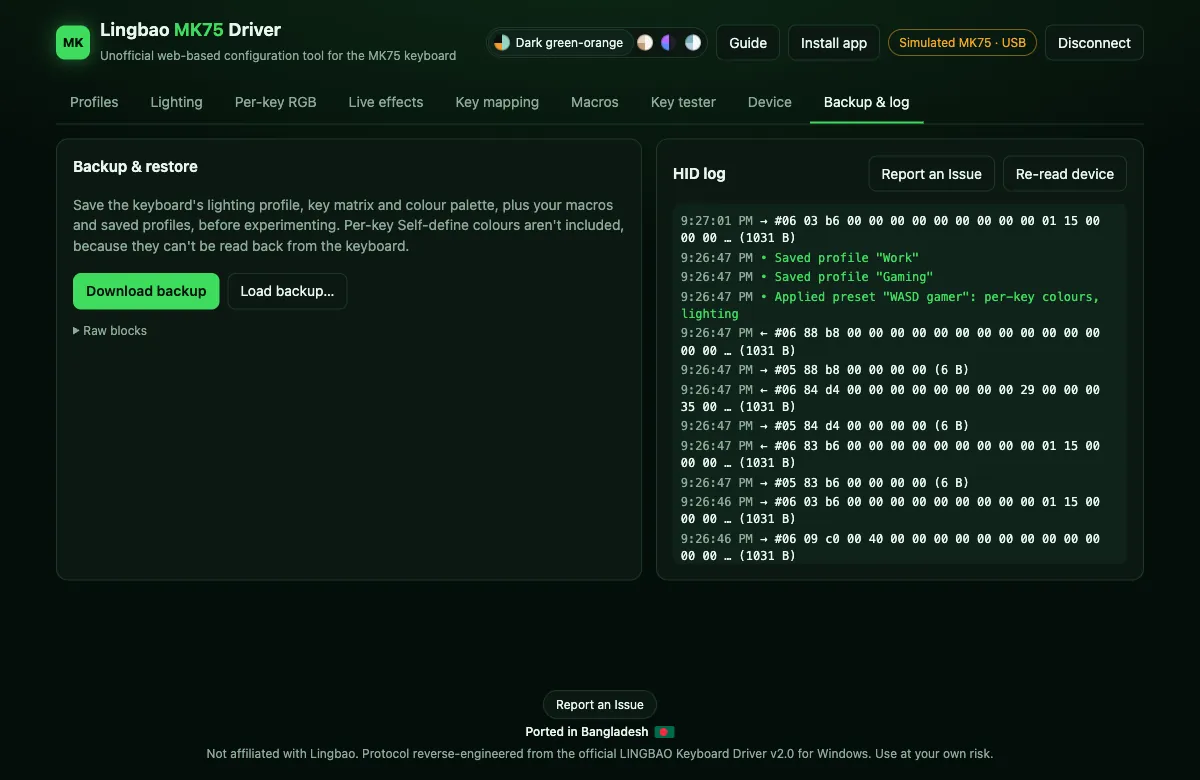
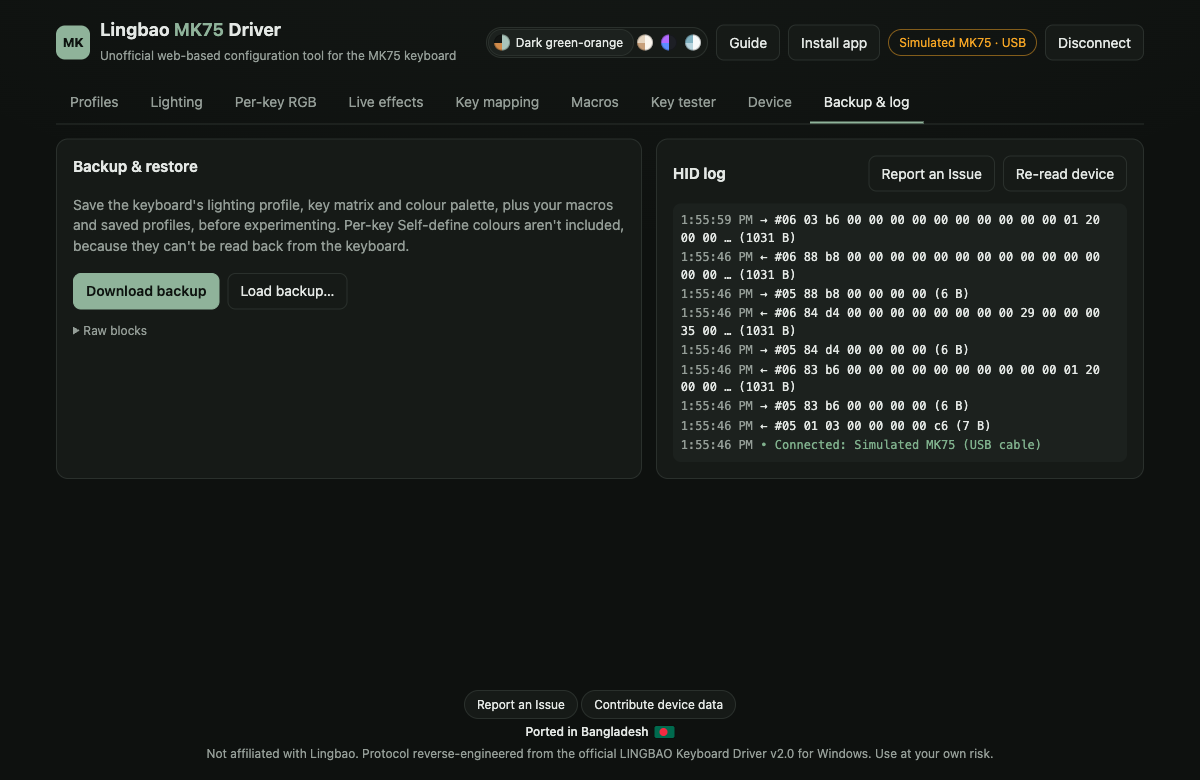
feat: matte Dark green-orange theme
Repaints the default theme to match the real keyboard: near-neutral charcoal
base, sage accent, dusty mint caps, burnt-orange accents, no glows (top
background glow near zero, no glow on the logo or primary-button hover). Theme
id stays green-orange, so saved choices keep working; the other three themes
are unchanged.

Sage is close in hue to the mint caps, so for this theme only the selected-key
ring is near-white, and the Key tester shows held keys in near-white and
tested keys in a deeper green (CSS variables with the old formula as
fallback for the other themes). All text/background pairs are >= 5.8:1.

Also updates theme-color / manifest colours and retakes the manual
screenshots in the new look.

diff --git a/src/styles.css b/src/styles.css
@@ -1,31 +1,31 @@
-/* Lingbao MK75 colour language (sampled from the official MK75 product poster):
-   deep green-black base, lime-green highlight, mint keycaps, charcoal modifiers, orange accents.
+/* Lingbao MK75 colour language, matte like the real board: near-neutral charcoal base, sage highlight,
+   dusty mint keycaps, charcoal modifiers, burnt-orange accents, no glow.
    One theme per official MK75 colourway: dark green-orange (default), iced milk tea, Arthur, summer wilderness. */
 :root {
-  --bg: #050e0a;
-  --bg-glow: rgba(63, 220, 95, 0.16);
-  --surface: #0b1811;
-  --surface-2: #10231a;
-  --border: #1c3829;
-  --text: #e8f5ee;
-  --muted: #8ba999;
-  --accent: #3fdc5f;
-  --accent-ink: #03140a;
-  --accent-2: #f5922a;
-  --mint: #8fd8c5;
+  --bg: #0e110f;
+  --bg-glow: rgba(150, 170, 155, 0.05);
+  --surface: #161a17;
+  --surface-2: #1c211e;
+  --border: #2a302c;
+  --text: #e4e8e5;
+  --muted: #949d97;
+  --accent: #8fb39a;
+  --accent-ink: #0e1410;
+  --accent-2: #d08a4c;
+  --mint: #9cbfb3;
   --danger: #ff6b6b;
-  --ok: #3fdc5f;
+  --ok: #7fb08c;
   --warn: #f5a524;
-  --case: #0a0e0c;
-  --plate: #121815;
-  --cap-alpha: #93d6c6;
-  --cap-alpha-ink: #0b2a22;
-  --cap-mod: #1e2523;
-  --cap-mod-ink: #d3e6dd;
-  --cap-accent: #f39a2b;
-  --cap-accent-ink: #2a1503;
+  --case: #121513;
+  --plate: #181c19;
+  --cap-alpha: #a9c4ba;
+  --cap-alpha-ink: #1c2b26;
+  --cap-mod: #262b28;
+  --cap-mod-ink: #c9d2cd;
+  --cap-accent: #cf8a4a;
+  --cap-accent-ink: #2a1607;
   --cap-edge: rgba(0, 0, 0, 0.45);
-  --knob: #1b201e;
+  --knob: #1f2321;
   --focus: 0 0 0 3px color-mix(in srgb, var(--accent) 40%, transparent);
   color-scheme: dark;
 }
@@ -163,6 +163,8 @@ button:focus-visible, select:focus-visible, input:focus-visible { outline: none;
 button:disabled { opacity: 0.45; cursor: not-allowed; }
 button.primary { background: var(--accent); color: var(--accent-ink); border-color: var(--accent); font-weight: 600; }
 button.primary:hover:not(:disabled) { box-shadow: 0 0 14px color-mix(in srgb, var(--accent) 45%, transparent); }
+/* Dark green-orange is matte: no accent glows. */
+:root[data-theme='green-orange'] :is(.brand-logo, button.primary:hover) { box-shadow: none; }
 button.danger { background: var(--danger); color: #fff; border-color: var(--danger); }
 select {
   font: inherit;
@@ -261,6 +263,10 @@ select {
 .key.sel rect { stroke: var(--accent); stroke-width: 2.5; }
 .key.hl rect { stroke: var(--accent-2); stroke-width: 2; stroke-dasharray: 3 2; }
 .key.sel.hl rect { stroke: var(--accent); stroke-dasharray: none; }
+/* Sage on dusty-mint caps is too close in hue: the matte theme selects in near-white, and the Key tester uses
+   near-white for held keys and a deeper green for tested ones. */
+:root[data-theme='green-orange'] :is(.key.sel rect, .knob.sel .knob-cap) { stroke: var(--text); }
+:root[data-theme='green-orange'] { --key-held: var(--text); --key-tested: #6e9c7a; }
 .key.lit .kl { fill: #fff; paint-order: stroke; stroke: rgba(0, 0, 0, 0.55); stroke-width: 2px; }
 .kl { font-size: 7.5px; pointer-events: none; font-weight: 600; }
 .ks { font-size: 5.5px; fill: var(--accent-2); pointer-events: none; font-weight: 700; paint-order: stroke; stroke: var(--case); stroke-width: 1.5px; }

diff --git a/src/App.tsx b/src/App.tsx
@@ -22,7 +22,7 @@ import { BatteryIcon } from './ui/BatteryIcon';
 
 /** One theme per official MK75 colourway (product page): case / keycap colours for the swatch. */
 const THEMES = [
-  { id: 'green-orange', name: 'Dark green-orange', swatch: 'conic-gradient(#93d6c6 0 50%, #f39a2b 0 75%, #0a0e0c 0)' },
+  { id: 'green-orange', name: 'Dark green-orange', swatch: 'conic-gradient(#a9c4ba 0 50%, #cf8a4a 0 75%, #121513 0)' },
   { id: 'milk-tea', name: 'Iced milk tea', swatch: 'conic-gradient(#fbf6ee 0 50%, #c8a07a 0 75%, #e6d5bf 0)' },
   { id: 'arthur', name: 'Arthur', swatch: 'conic-gradient(#1d1f25 0 50%, #5b8cff 0 75%, #b36bff 0)' },
   { id: 'summer', name: 'Summer Wilderness', swatch: 'conic-gradient(#f6f9fa 0 50%, #b8d4de 0 75%, #7fb0c0 0)' },

diff --git a/src/ui/TesterTab.tsx b/src/ui/TesterTab.tsx
@@ -56,11 +56,11 @@ export function TesterTab({ api }: { api?: DeviceApi }) {
   const tested = TESTABLE.filter((k) => (d.keys.get(k.index)?.presses ?? 0) > 0).length;
   const chatter = d.chattering;
   const fill = (idx: number) => {
-    if (d.down.has(idx)) return 'var(--accent)';
+    if (d.down.has(idx)) return 'var(--key-held, var(--accent))';
     const s = d.keys.get(idx);
     if (!s) return undefined;
     if (s.chatter.length) return '#e5484d';
-    return 'color-mix(in srgb, var(--ok) 55%, var(--cap-alpha))';
+    return 'var(--key-tested, color-mix(in srgb, var(--ok) 55%, var(--cap-alpha)))';
   };
 
   return (

diff --git a/index.html b/index.html
@@ -2,7 +2,7 @@
 <html lang="en" data-theme="green-orange">
   <head>
     <meta charset="UTF-8" />
-    <meta name="theme-color" content="#050e0a" />
+    <meta name="theme-color" content="#0e110f" />
     <meta name="viewport" content="width=device-width, initial-scale=1.0" />
     <title>Lingbao MK75 Driver</title>
     <link rel="manifest" href="manifest.webmanifest" />
